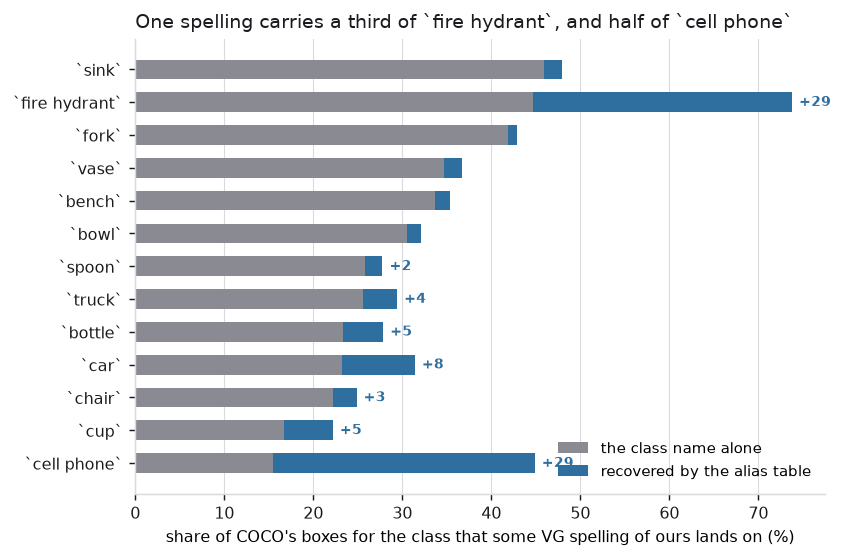
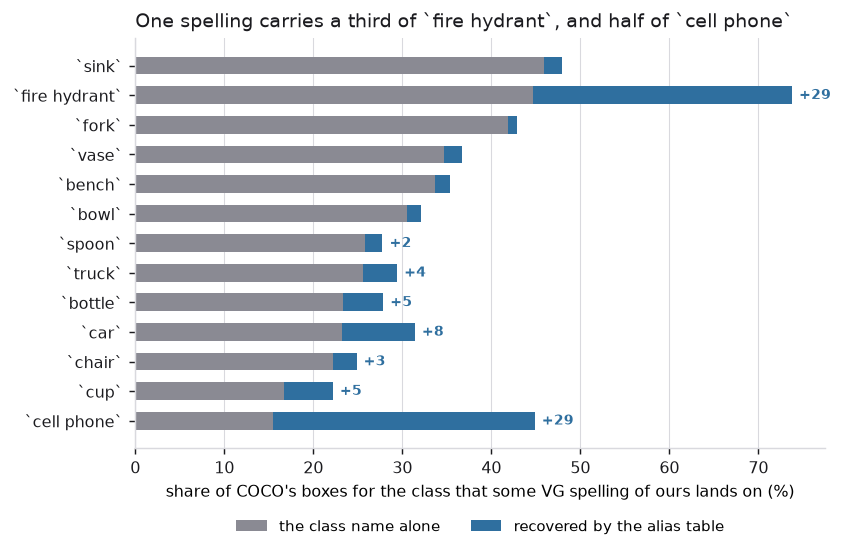
figures: label an un-banding fold as one, not as a negative gain

diff --git a/scripts/experiments/pile/figures_3588_promotion.py b/scripts/experiments/pile/figures_3588_promotion.py
@@ -123,12 +123,19 @@ def fig_supply(before: dict, after: dict, path: Path) -> None:
     )
     for i, (d, c) in enumerate(rows):
         pct = 100 * d / max(b[c]["union"], 1)
-        label = f"  +{d:,}  ({pct:.0f}%)" if d else "  0 -- no alias row"
+        if d > 0:
+            label = f"  +{d:,}  ({pct:.0f}%)"
+        elif d < 0:
+            # A fold can also un-band: the merged union scatters or outgrows a
+            # region and leaves every band (#3637, where `clock` nets -16).
+            label = f"  \u2212{-d:,}  (the scatter guard)"
+        else:
+            label = "  0 -- no alias row, so nothing could move"
         ax.text(max(d, 0) + 12, i, label, va="center", fontsize=8, color=INK if d else OWN)
     ax.set_yticks(list(ys))
     ax.set_yticklabels([f"`{c}`" for _, c in rows], fontsize=8.5)
     ax.set_xlabel("band-free positives the alias table adds, invisible to the old measurement", fontsize=9)
-    ax.set_xlim(0, max(d for d, _ in rows) * 1.42)
+    ax.set_xlim(min(0, min(d for d, _ in rows) * 4), max(d for d, _ in rows) * 1.42)
     ax.grid(axis="x", color=GRID, lw=0.6)
     ax.invert_yaxis()
     _frame(ax)
